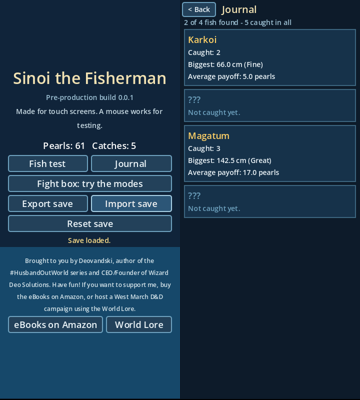
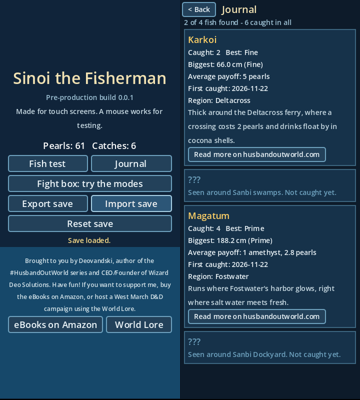
Journal: best quality, first catch, region, lore teasers; lore-nudge rule
- Journal entries now also show best quality, first catch date, region
  and a one- or two-line lore teaser with a "Read more on
  husbandoutworld.com" button. Uncaught fish show where they're seen.
- Average payoff is shown in the lore's ball currency (amethysts and up
  past 50 pearls), from data/balls.json.
- fish.json gains region, lore and lore_link; teasers use canon facts from
  the World Lore.
- CLAUDE.md: "Nudge the lore, don't dump it" rule.

Claude-Session: https://claude.ai/code/session_01EvLVxMzCbZ7tb2gpjRhfSK

Changed region(s): [[0.4889, 0.18, 1.0, 0.93], [0.6111, 0.12, 0.7333, 0.15]]

diff --git a/docs/white-paper/06-fish-fights.md b/docs/white-paper/06-fish-fights.md
@@ -35,9 +35,12 @@ Decided by Deovandski (2026-11-22): **a streak earns higher quality, bigger fish
 
 Decided by Deovandski (2026-11-22): **the game keeps a journal with every fish caught: how many, the biggest catch, and the average payoff in pearls.**
 
-![The title screen with the new Journal button after importing a sample save, and the Journal: Karkoi and Magatum caught with their counts, biggest catch and average payoff; the two fish not caught yet show "???".](img/2026-11-22-journal.png)
+![The title screen with the Journal button after importing a sample save, and the Journal: Karkoi and Magatum caught, each with count, best quality, biggest catch, average payoff in balls, first catch date, region, a lore teaser and a Read more button; the two fish not caught yet show "???" and where they're seen.](img/2026-11-22-journal.png)
 
-- **Title screen → Journal** lists every fish in `fish.json` order. A caught fish shows how many were caught, the biggest catch (size and that catch's quality) and the average pearls per catch. Fish not caught yet show "???". The top line counts species found and total catches.
+- **Title screen → Journal** lists every fish in `fish.json` order. The top line counts species found and total catches.
+- A caught fish shows (Deovandski asked for all of these, 2026-11-22): how many were caught and the **best quality**; the biggest catch (size and that catch's quality); the **average payoff in balls** (pearls, shown as amethysts and up once it reaches 50: "1 amethyst, 2.8 pearls", from `data/balls.json`); the **first catch date**; the **region**; and a **lore teaser** with a "Read more on husbandoutworld.com" button.
+- Fish not caught yet show "???" and where they're seen ("Seen around Sanbi Dockyard"), a nudge to go there. Their lore stays hidden until caught.
+- **Lore teasers follow the "nudge, don't dump" rule** (CLAUDE.md): a line or two from canon, enough to bait curious players to the website. Regions are canon places; which fish lives where is a placeholder until the West March travel map sets fish per region.
 - The journal is saved as its own section (`journal`, save format v7): one entry per fish with the count, total pearls, biggest size and its quality, best quality, and first and last catch times. Keeping totals (rather than reading the catch log each time) keeps the journal right even if the catch log is trimmed later. Older saves get a journal built from their catch log.
 - Fish-test catches fill it for now; real fishing will use the same `Journal.record()`.
 
@@ -71,12 +74,12 @@ Every fish is in [`game/data/fish.json`](../../game/data/fish.json), easiest fir
 
 All four existed before as the Cast button's placeholder catches. Their sections are a first pass, themed on the real fish they're named after.
 
-| Fish | Based on | Sections (difficulty 0–10) | Curve | Pearls | Size (cm) |
-| --- | --- | --- | --- | --- | --- |
-| Karkoi | carp (Karpfen + koi) | Slide Guide 1–3 | climb | 2–5 | 25–80 |
-| Bagnazu | catfish (bagre + namazu) | Reel Spin 2–4, Slide Guide 3–5 | climb | 2–6 | 30–120 |
-| Magatum | tuna (maguro + atum) | Hookset 3–5, Reel Spin 4–6, Tap Tempo 4–6 | bell | 3–8 | 60–200 |
-| Sanbi (canon) | #HusbandOutWorld | Hookset 5–7 (decoys), Hold Hop 5–7, Lost Ref 6–8 | climb | 10–25 | 40–90 (placeholder) |
+| Fish | Based on | Region | Sections (difficulty 0–10) | Curve | Pearls | Size (cm) |
+| --- | --- | --- | --- | --- | --- | --- |
+| Karkoi | carp (Karpfen + koi) | Deltacross | Slide Guide 1–3 | climb | 2–5 | 25–80 |
+| Bagnazu | catfish (bagre + namazu) | Sanbi swamps | Reel Spin 2–4, Slide Guide 3–5 | climb | 2–6 | 30–120 |
+| Magatum | tuna (maguro + atum) | Fostwater | Hookset 3–5, Reel Spin 4–6, Tap Tempo 4–6 | bell | 3–8 | 60–200 |
+| Sanbi (canon) | #HusbandOutWorld | Sanbi Dockyard | Hookset 5–7 (decoys), Hold Hop 5–7, Lost Ref 6–8 | climb | 10–25 | 40–90 (placeholder) |
 
 The "based on" pairs for Karkoi and Bagnazu are Claude's reading of the existing names under the two-language rule; Magatum's is the example in CLAUDE.md. Sanbi's fight is a placeholder until the lore is checked.
 
@@ -103,7 +106,7 @@ Magatum | Hookset 3-5, Reel Spin 4-6, Tap Tempo 4-6 (bell) | 1 | 3 | 41.2 | 57 |
 - `scripts/fight/fish_fight.gd` — sections, segment fills, difficulty curves, carry-over, catch and escape.
 - `scripts/fight/fish_catalog.gd` — reads `fish.json`.
 - `scripts/fight/catch_reward.gd` — rolls a catch's quality, size and pearls from the streak and accuracy.
-- `scripts/journal.gd` — records catches into the journal and works out averages; `scripts/journal_screen.gd` + `scenes/journal.tscn` show it.
+- `scripts/journal.gd` — records catches into the journal and works out averages; `scripts/journal_screen.gd` + `scenes/journal.tscn` show it; `scripts/balls.gd` formats pearls into the ball currency.
 - `scripts/fish_test.gd` + `scenes/fish_test.tscn` — the screen.
 - `tests/test_fish_fights.gd` — data checks, section flow, climb and bell curves, carry-over, streak rewards, the journal, escape, and every fish's sections running.
 
@@ -117,7 +120,9 @@ Magatum | Hookset 3-5, Reel Spin 4-6, Tap Tempo 4-6 (bell) | 1 | 3 | 41.2 | 57 |
 - **Later sections more forgiving?** No: walls of difficulty push players toward better gear; skilled players can crank through anyway.
 - **Do quality and size matter beyond pearls?** Yes, in the journal: every fish caught records how many, the biggest catch and the average payoff.
 
+- **What else should the journal show?** All of it: best quality, first catch date, region and lore text (with the nudge rule above).
+
 ## Open questions
 
-- Should the journal show more later (best quality, first catch date, region, lore text once regions exist)?
+- Which fish live in which region (waits for the West March travel map)?
 - Fish beyond these four (canon Fihi, Ptaina, True Sanbi King, and new two-language fish) wait for the region and fish lists.

diff --git a/README.md b/README.md
@@ -20,7 +20,7 @@ The current build is a pre-production shell that proves the pipeline:
 
 - a **fish test**: pick any fish in the game from a drop-down and fight it. Each fish fights in one or more **sections** (a segmented meter); each section is a fight-box mode with its own difficulty range. Strong sections give the next a head start, and a catch streak earns better quality, bigger fish and bonus pearls, all saved (see [chapter 06](docs/white-paper/06-fish-fights.md));
 - a **fight-box playground** with nine modes to try and rank (Slide Guide, Shake, Tap Tempo, Reel Spin, Hookset, Hold Hop, Lost Ref, Beat Notes, Twin Drift), picked from a drop-down at the top. A **difficulty slider** (0 easy to 10 hard) sets how hard each mode plays. Each has an interactive pad, a shadow pad, a catch meter, results kept in the save, and a **Copy** button that puts your results on the clipboard to send back (see [chapter 04](docs/white-paper/04-fight-box-modes.md));
-- a **journal** of every fish caught: how many, the biggest catch and the average payoff in pearls;
+- a **journal** of every fish caught: how many, best quality, the biggest catch, the average payoff in balls, the first catch date, the region and a short lore teaser that links to [husbandoutworld.com](https://husbandoutworld.com/);
 - **JSON save export and import** on the web (download / file picker) and on Android (system file picker, with a clipboard fallback);
 - automatic local saving (browser storage on the web, private app storage on Android);
 - **install as an app** from the browser (a PWA): it opens straight into the game, works with no signal after the first load, and offers an in-game button when a new version is ready.
@@ -30,7 +30,7 @@ The current build is a pre-production shell that proves the pipeline:
 ```
 game/                 Godot 4.7 project (GDScript)
   scenes/             scenes (.tscn)
-  data/               data files (fight_modes.json: fight-box modes and tuning; fish.json: every fish and its sections)
+  data/               data files (fight_modes.json: fight-box modes and tuning; fish.json: every fish, its sections, region and lore; balls.json: the currency)
   scripts/            game scripts; scripts/autoload/save_manager.gd handles saves,
                       scripts/fight/ holds the fight-box modes
   tests/              headless tests, run in CI

diff --git a/docs/white-paper/05-ideas-log.md b/docs/white-paper/05-ideas-log.md
@@ -68,3 +68,7 @@ Status: **Kept** (in the design), **Cut** (rejected), **Testing** (prototype exi
 | 2026-11-22 | Fish-test catches add the fish and pearls to the save | Claude | Kept | Keeps what the Cast placeholder proved: catches and pearls flowing into the save *(inferred)* | [06](06-fish-fights.md) |
 | 2026-11-22 | Fishing journal: every fish caught, with how many, the biggest catch and the average payoff in pearls | Deo | Kept | Gives quality and size a lasting place beyond pearls, and something to chase | [06](06-fish-fights.md#journal) |
 | 2026-11-22 | Journal stored as per-fish totals, not recomputed from the catch log | Claude | Kept | Stays right if the catch log is trimmed later *(inferred)* | [06](06-fish-fights.md#journal), [SAVE_FORMAT](../SAVE_FORMAT.md) |
+| 2026-11-22 | Journal also shows best quality, first catch date, region and a lore teaser | Claude, Deo | Kept | Deo: "sounds fun to have" | [06](06-fish-fights.md#journal) |
+| 2026-11-22 | Nudge the lore, don't dump it: short canon teasers that bait curious players to the website | Deo | Kept | The game is free advertising for the series; teasers send curious players to husbandoutworld.com (rule in CLAUDE.md) | [06](06-fish-fights.md#journal), [CLAUDE.md](../../CLAUDE.md) |
+| 2026-11-22 | Show payoffs in the lore's ball currency (amethysts and up past 50 pearls) | Claude | Kept | "Balls" is the series' currency; showing the denominations is itself a small lore nudge *(inferred)* | [06](06-fish-fights.md#journal) |
+| 2026-11-22 | Uncaught fish show where they're seen, lore hidden until caught | Claude | Kept | A nudge to travel and fish there, and lore as a reward for the catch *(inferred)* | [06](06-fish-fights.md#journal) |

diff --git a/CLAUDE.md b/CLAUDE.md
@@ -20,6 +20,13 @@ This repo is **Sinoi the Fisherman**: an open-source, active, touch-first pixel-
 - **Never remove, rename or edit `site/google0c08003a2b869d98.html`:** it's the Google Search Console verification file. Google re-checks it, and removing it un-verifies the site.
 - Keep the support text and Amazon link (`https://www.amazon.com/dp/B0BT5XM4QC`) wherever the credits appear.
 
+## Nudge the lore, don't dump it
+
+In-game lore (journal teasers, notices, descriptions) should make curious players want more, then point them to the series' website (`lore_link` in `game/data/fish.json`, https://husbandoutworld.com/).
+- Keep it to a line or two: a hook, a name, a hint. Never a summary of the story.
+- Facts come from the series and the World Lore (`Deovandski/HusbandOutWorld`, `Deovandski/Vraki-West-March-Campaign-D-D`); the series wins. New fish get flavour tied to canon places, not new canon.
+- No spoilers from unreleased story notes. When unsure whether something may be revealed, ask Deo.
+
 ## Keep the white paper's record of ideas
 
 During the research phase, every idea gets recorded, including the ones that don't make the cut.
